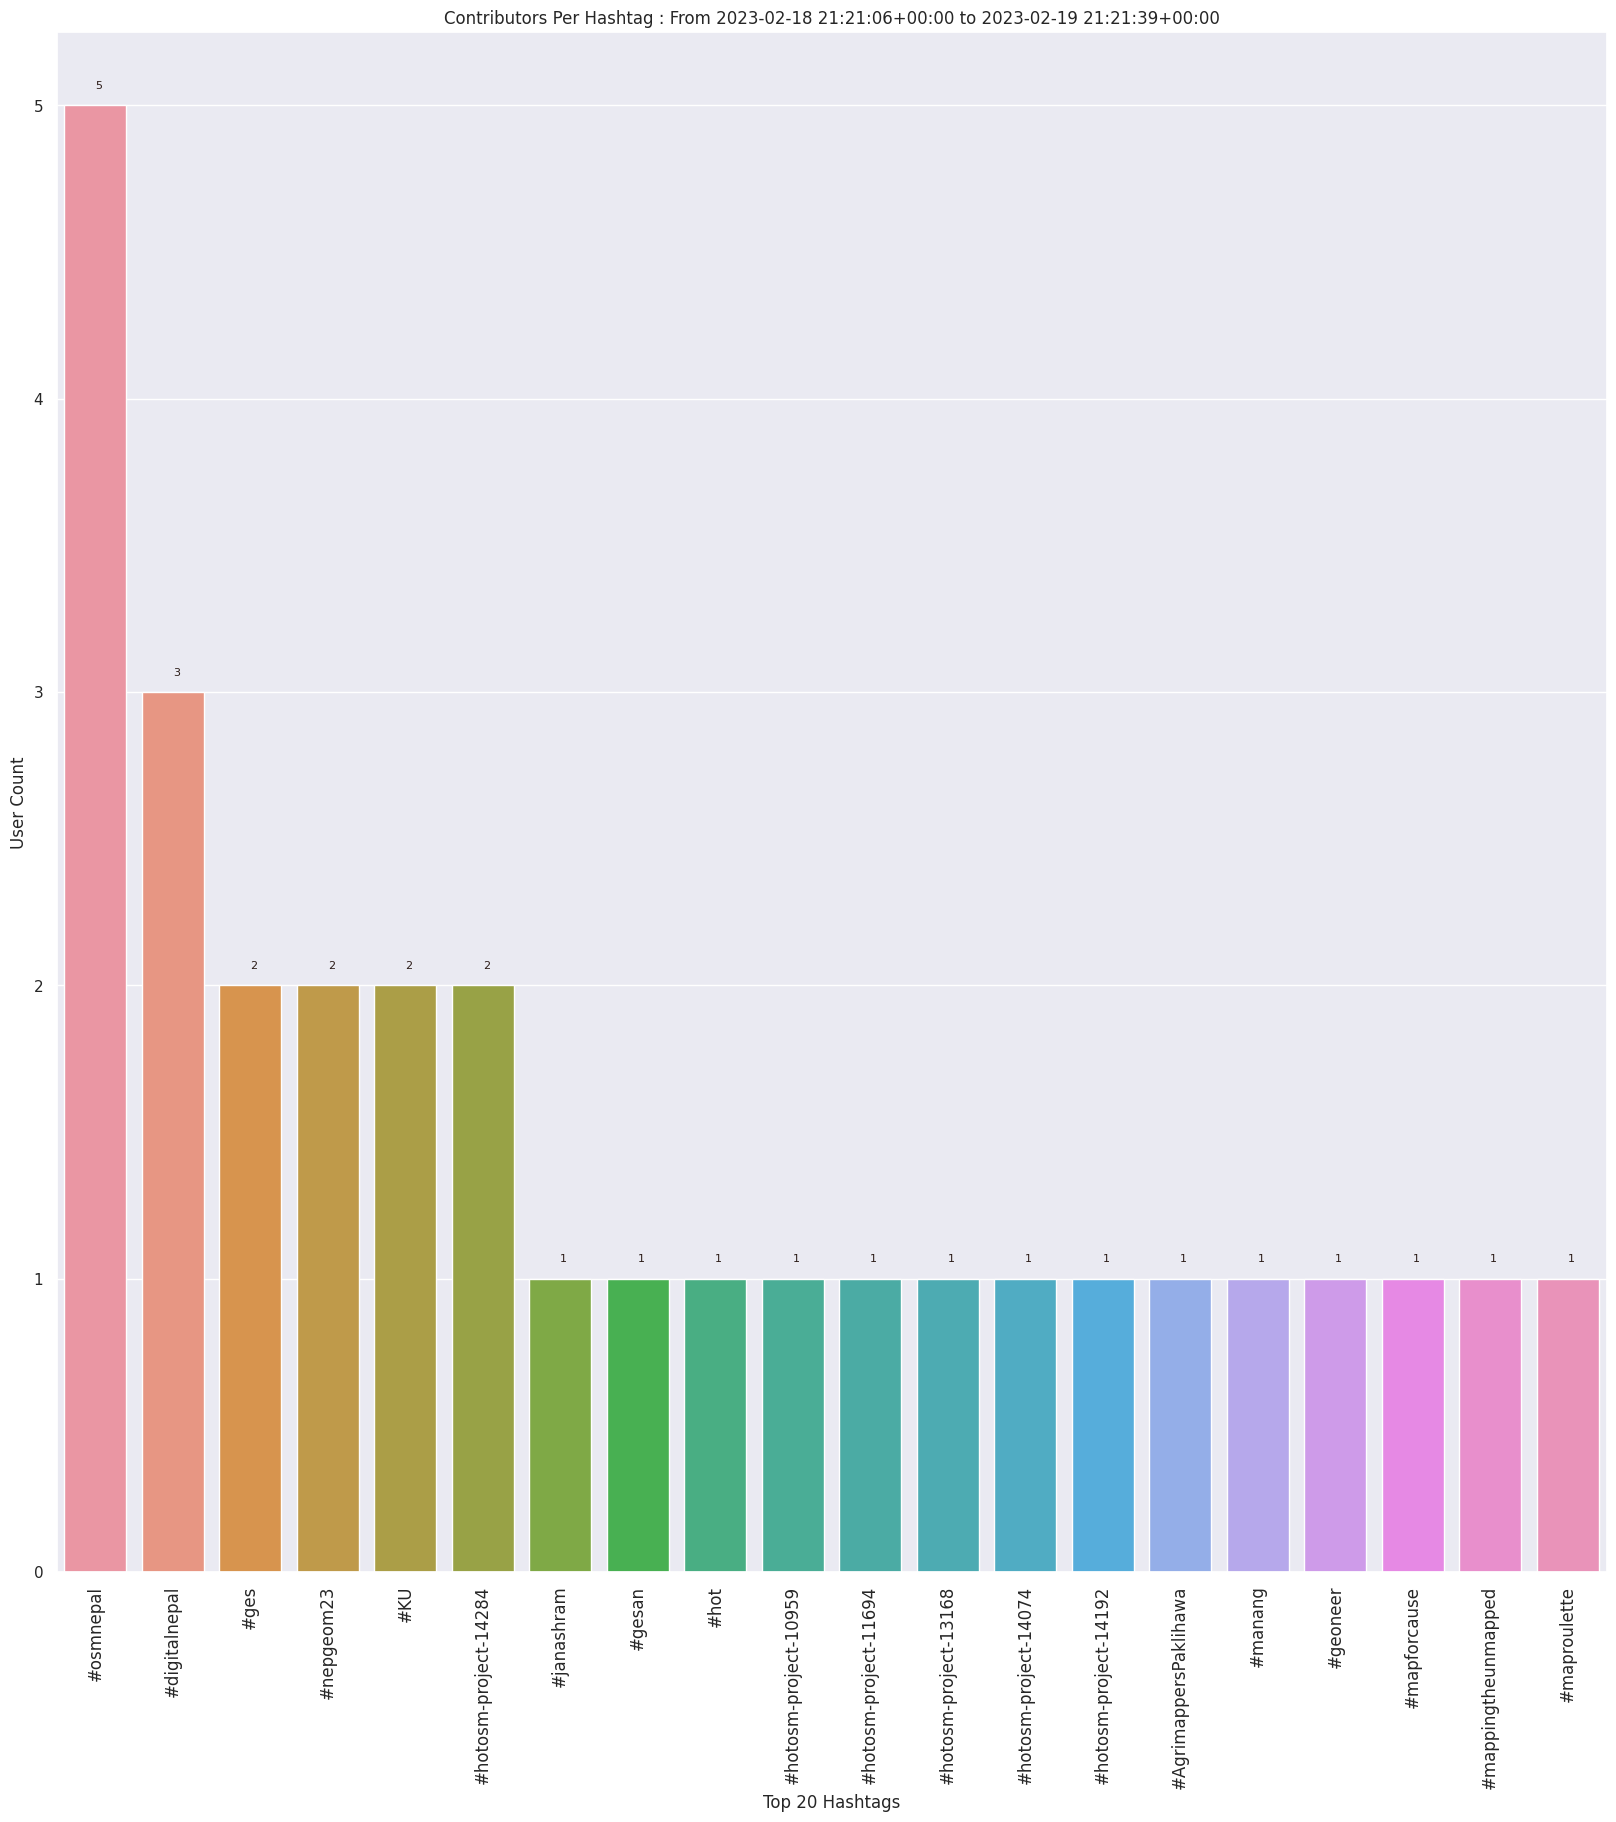
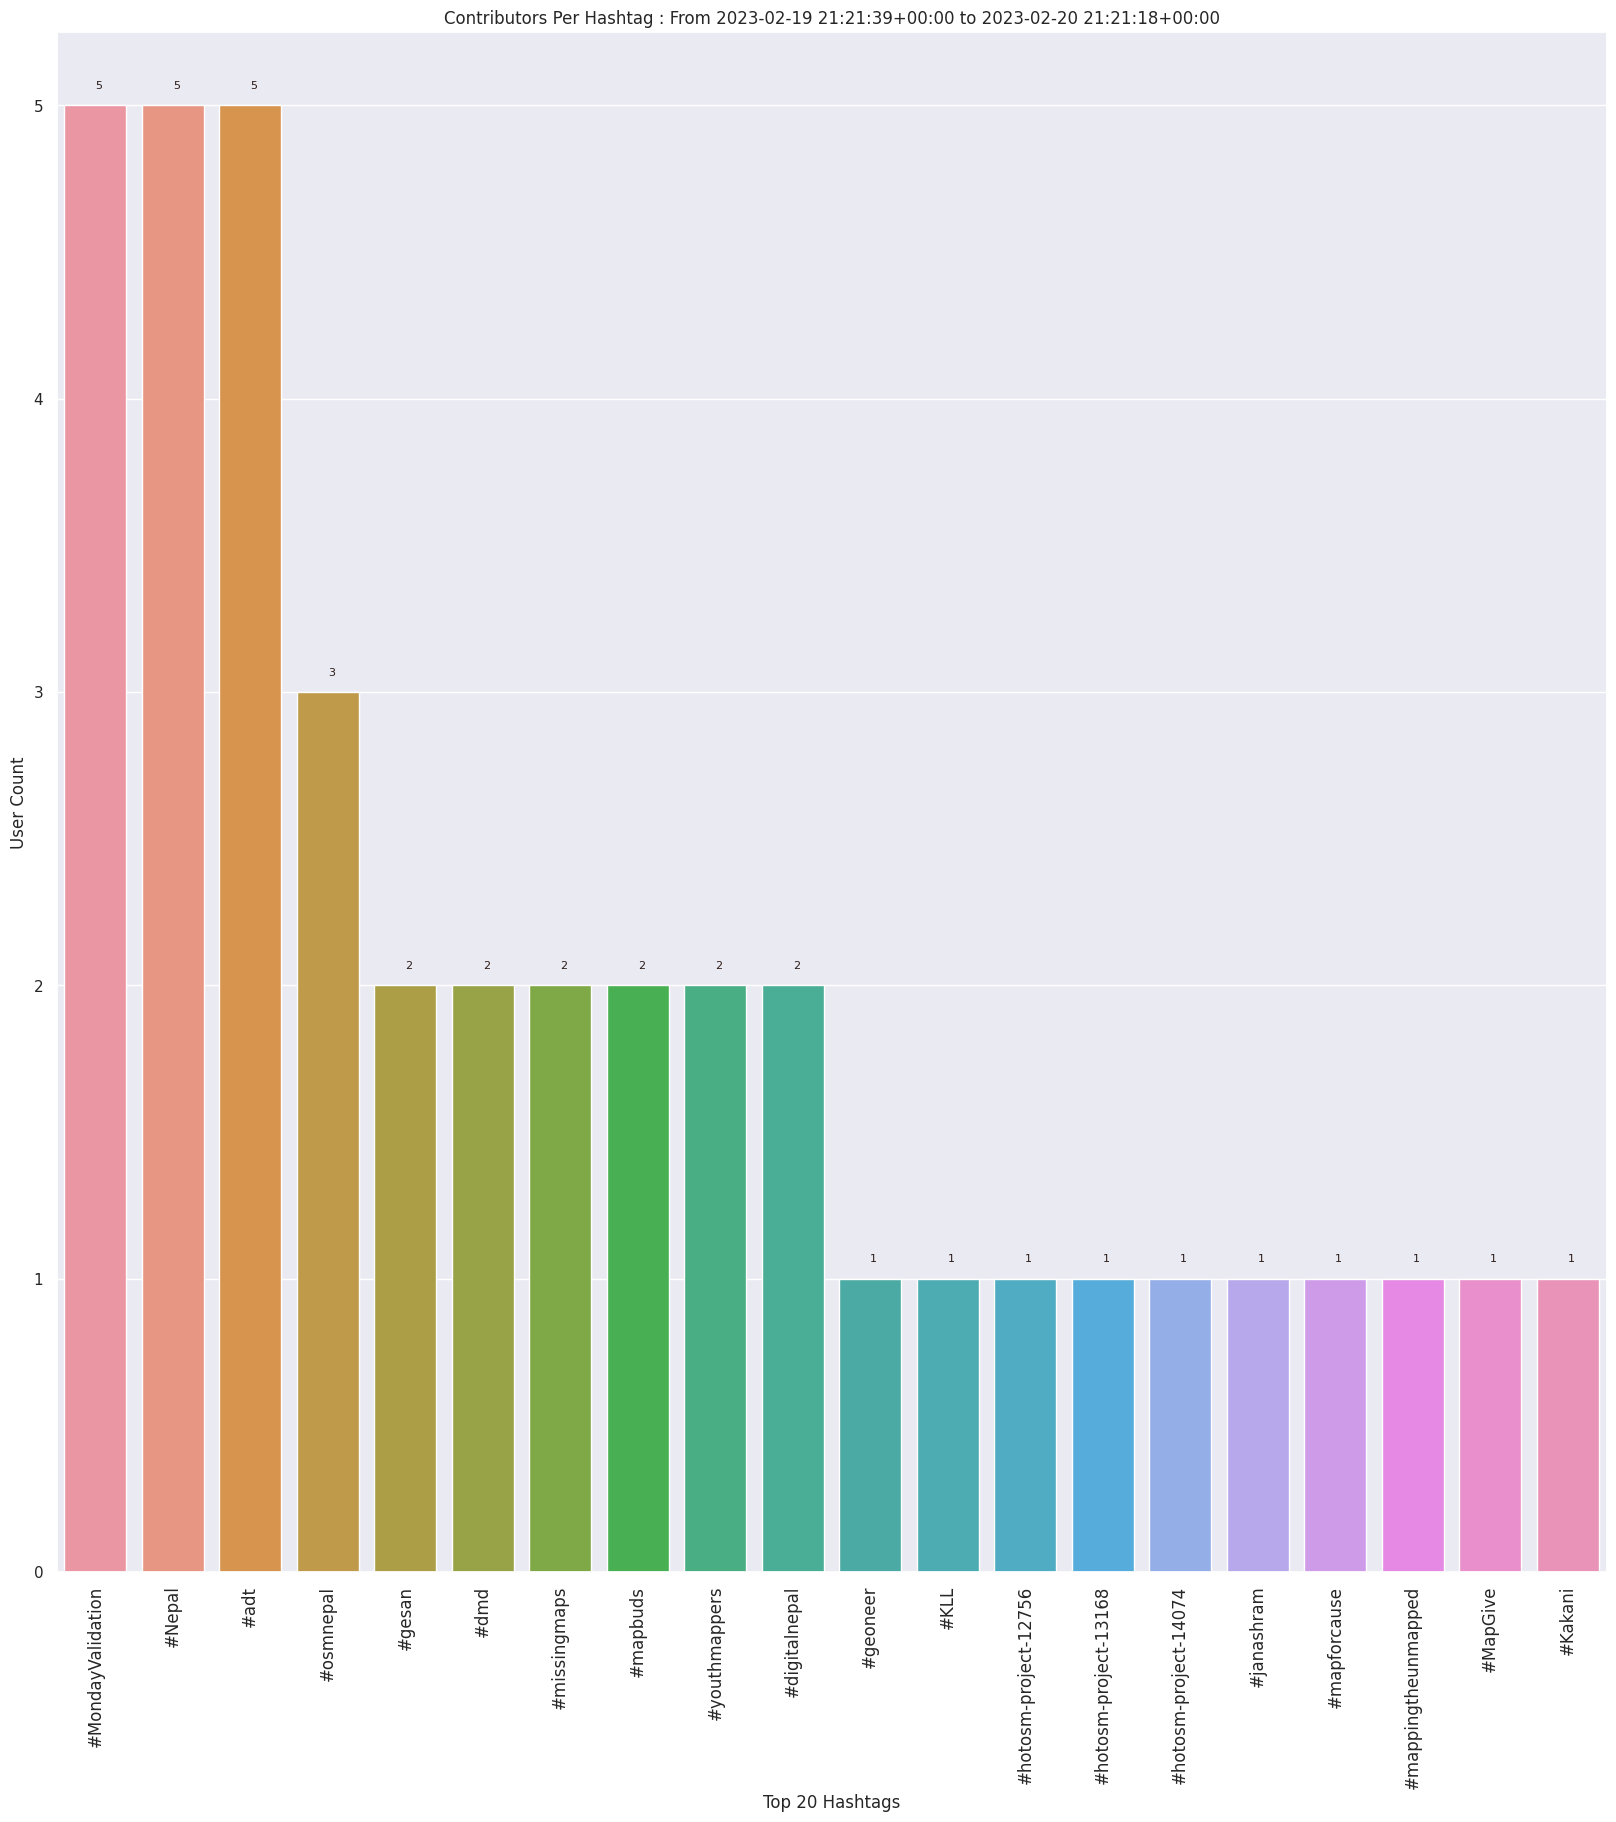
Updated Readme Daily Nepal

diff --git a/stats/Nepal/Daily/README.md b/stats/Nepal/Daily/README.md
@@ -1,10 +1,10 @@
 ### Last Update :
 
-### Stats From 2023-02-19 03:06:06+05:45 to 2023-02-20 03:06:39+05:45
+### Stats From 2023-02-20 03:06:39+05:45 to 2023-02-21 03:06:18+05:45
 
-25 Users made 128 changesets with 21.4 thousand map changes.
-- 15.2 thousand OSM Elements were Created,6.2 thousand Modified & 0 Deleted . Including 1.6 thousand buildings & 58 highways created. seichter tops table with 6.7 thousand changes
-- Top three trending hashtags for those stats are #osmnepal : 5, #digitalnepal : 3 & #hotosm-project-14284 : 2
+26 Users made 107 changesets with 39.5 thousand map changes.
+- 36.2 thousand OSM Elements were Created,3.2 thousand Modified & 0 Deleted . Including 2.0 thousand buildings & 97 highways created. marek kleciak tops table with 12.2 thousand changes
+- Top three trending hashtags for those stats are #adt : 5, #MondayValidation : 5 & #Nepal : 5
 - 
 ![Alt text](./charts/osm_changes.png) 
 ![Alt text](./charts/users_per_hashtag.png) 
